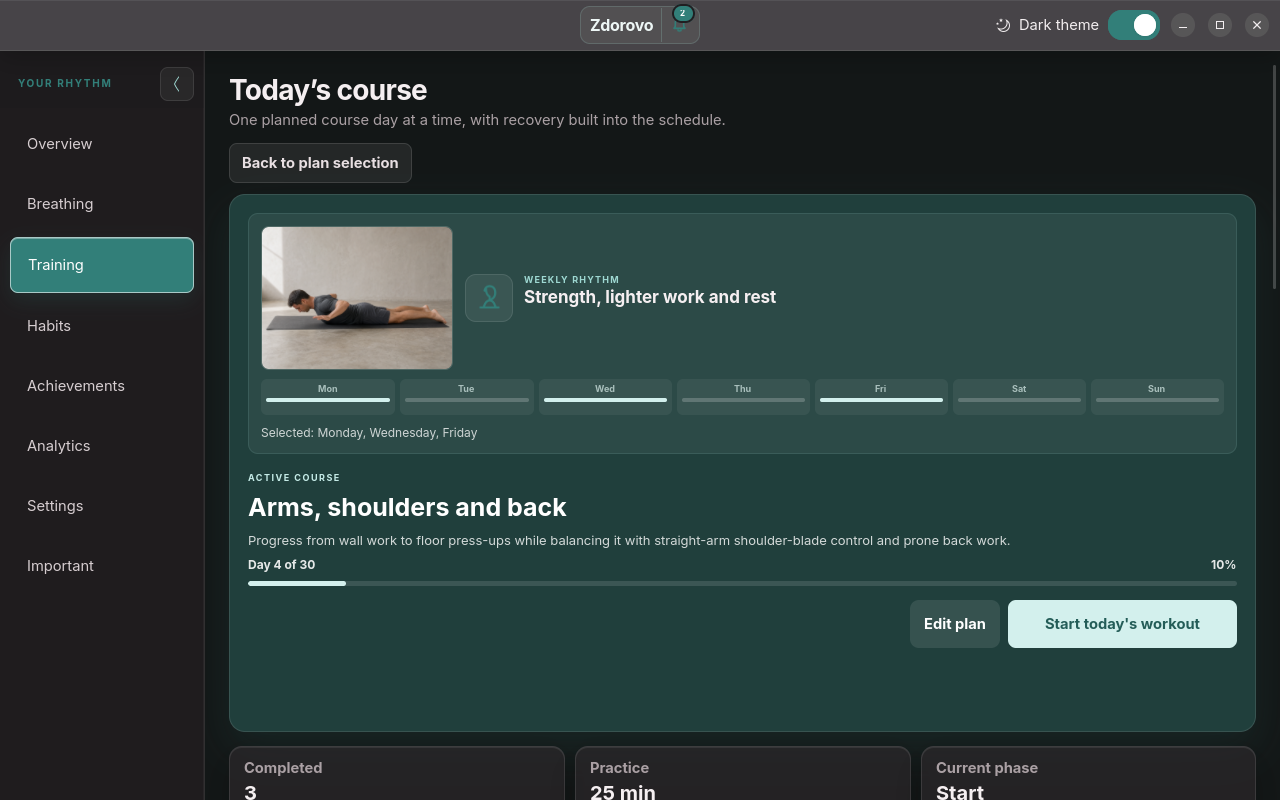
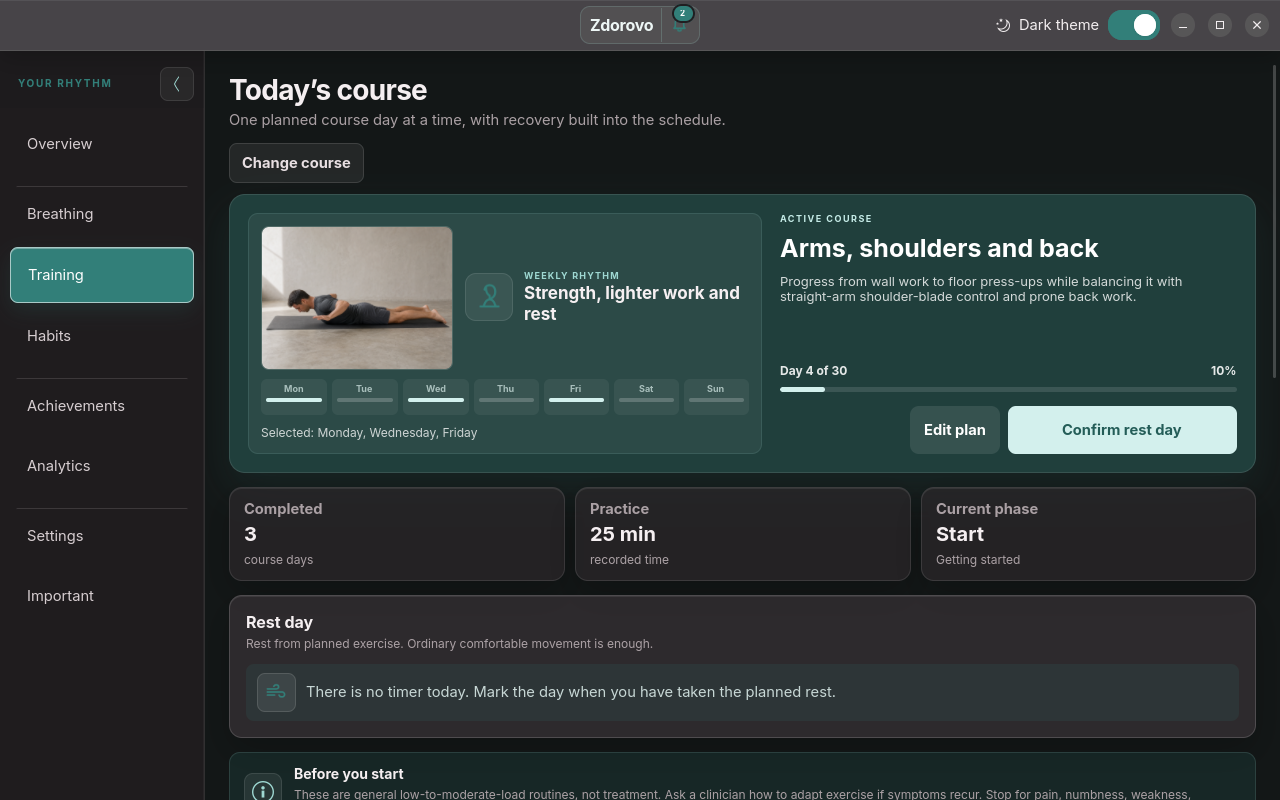
Release Zdorovo 0.1.8

diff --git a/healthbreak.py b/healthbreak.py
@@ -52,7 +52,7 @@ from gi.repository import Adw, Atspi, Gdk, Gio, GioUnix, GLib, Graphene, Gtk  # 
 APP_ID = "io.github.jabka.Zdorovo"
 APP_ICON_NAME = f"{APP_ID}-mint-v2"
 APP_NAME = "Здорово"
-APP_VERSION = "0.1.7"
+APP_VERSION = "0.1.8"
 ROOT = Path(__file__).resolve().parent
 ASSET_ROOT = ROOT / "assets"
 if not ASSET_ROOT.is_dir():

diff --git a/CHANGELOG.md b/CHANGELOG.md
@@ -2,6 +2,17 @@
 
 ## Unreleased
 
+## 0.1.8 — 2026-07-18
+
+- a guided six-step plan finder now chooses one course from the user's goal, preferred approach, weekly schedule, preparation level and course length;
+- resetting or changing a course returns directly to the new active plan, starts it with a workout day and restores the page at the top;
+- the active-course card keeps progress and actions aligned to its lower edge without reserving unused height;
+- guided workouts now run inside the main application window, leaving notifications and native window controls available throughout the session;
+- a completed day can be followed early when intentionally requested, with an explicit confirmation before bypassing a planned recovery day;
+- a Back control returns to the preceding exercise and restarts its timer without stepping through recovery screens;
+- the navigation sidebar uses quiet separators to group daily tools, progress, analytics and application settings;
+- screenshot capture now exercises the embedded workout runner and verifies that closing it restores the main application content.
+
 ## 0.1.7 — 2026-07-17
 
 - five progressive training courses for full-body strength, upper body and back, leg strength, leg stability, and mobility with balance;

diff --git a/README.md b/README.md
@@ -133,7 +133,7 @@ Download the current package from
 [GitHub Releases](https://github.com/sichiiii/zdorovo/releases/latest), then run:
 
 ```bash
-sudo apt install ./zdorovo_0.1.7_all.deb
+sudo apt install ./zdorovo_0.1.8_all.deb
 ```
 
 Open **Zdorovo** from the application list. Its user services start with the